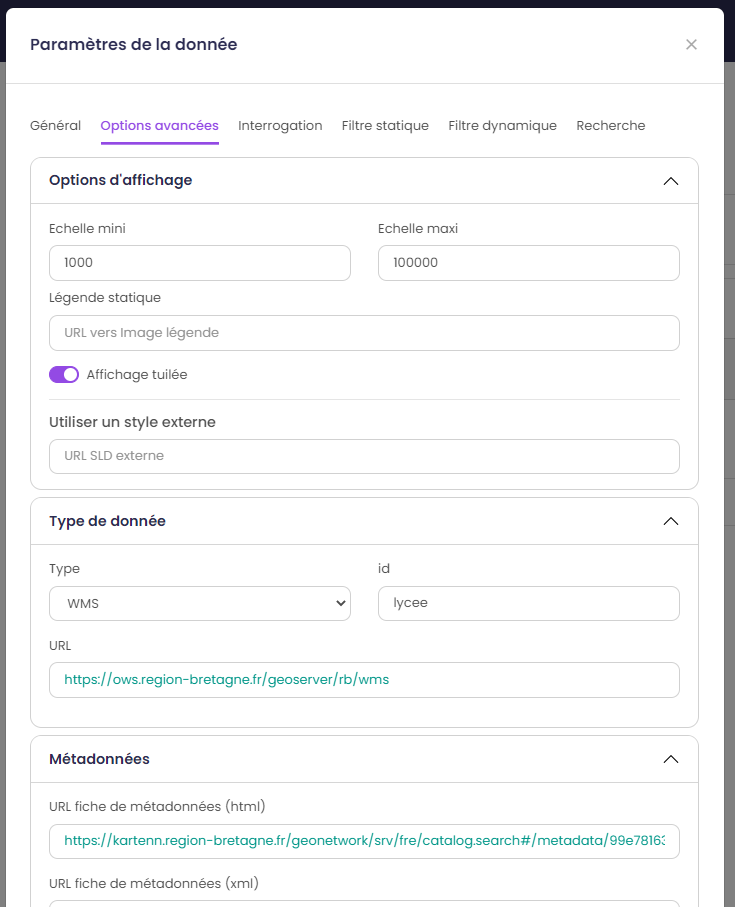
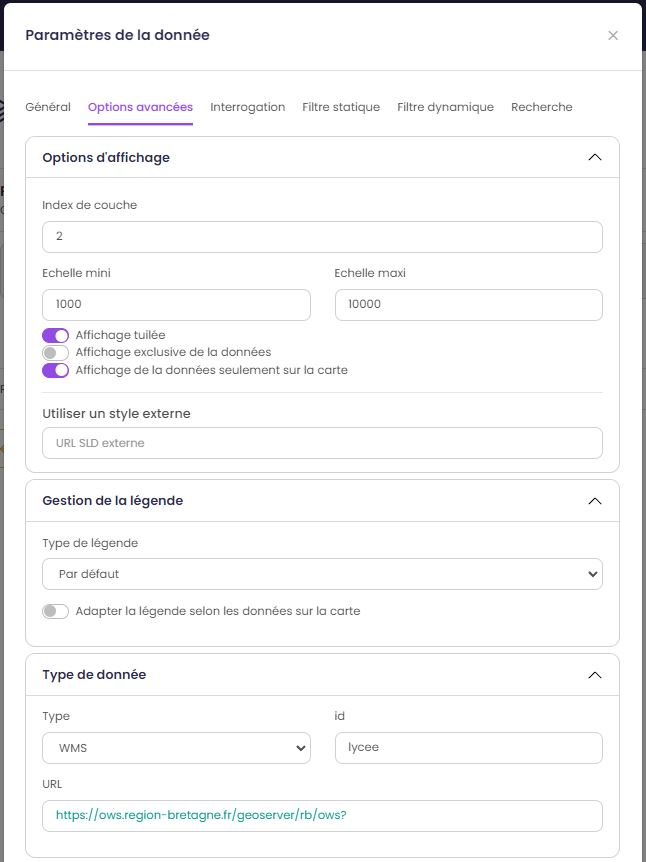
Update doc with new data params

diff --git a/index.html b/index.html
@@ -1109,7 +1109,7 @@
                                                         placeholder="Echelle maxi" i18n="modal.layer.display.ph.maxscale"/>
                                                 </div>
                                             </div>
-                                            <div class="form-group">
+                                            <div class="form-group mt-2">
                                                 <div class="custom-control custom-switch">
                                                     <input type="checkbox" class="custom-control-input" id="frm-tiled">
                                                     <label class="custom-control-label" for="frm-tiled" i18n="modal.layer.tiled">Affichage tuilé</label>

diff --git a/lib/mv.js b/lib/mv.js
@@ -853,12 +853,12 @@ var mv = (function () {
                 case "custom":
                     defaultClass.add("d-none");
                     customClass.remove("d-none");
-                    document.querySelector("#frm-layer-legend-dynamic").setAttribute("checked", true);
+                    document.querySelector("#frm-layer-legend-dynamic").checked = false;
                     break;
                 default:
                     defaultClass.remove("d-none");
                     customClass.add("d-none");
-                    document.querySelector("#frm-layer-legendurl-url").setAttribute("value", "");
+                    document.querySelector("#frm-layer-legendurl-url").value = "";
             }
         },
         

diff --git a/docs/doc_user/param_data.rst b/docs/doc_user/param_data.rst
@@ -103,8 +103,9 @@ L'onglet général recense les principales options de la donnée.
 * ``Attributions`` : source de la donnée.
 * ``Opacité`` : opacité par défaut de la donnée.
 * ``Afficher la donnée au démarrage de l'application`` : la donnée s'affiche au lancement de l'application.
+* ``Afficher la donnée en première position de la carte`` : la données s'affiche toujours au-dessus des autres données qui n'ont pas activée cette option.
 * ``Styles disponibles`` : choix du·des style·s de la donnée dans notre application. Possibilité d'éditer le libellé du style.
-
+* ``Libellé de la liste des styles`` : Titre de la liste de sélection des styles.
 
 Onglet Interrogation
 ~~~~~~~~~~~~~~~~~~~~~
@@ -146,13 +147,18 @@ L'onglet options avancées donne accès aux fonctionnalités avancées. :guilabe
               :alt: Options avancées
               :align: center
 
+* :guilabel:`mode avancé` ``Index de couche`` : Position dans l'ordre d'affichage des données sur la carte et la légende.
 * :guilabel:`mode avancé` ``Echelle mini / maxi`` : Echelle minimale et maximale d'affichage de la donnée.
-* :guilabel:`mode avancé` ``Légende statique`` : Lien vers une image qui s'affiche en tante que légende de la donnée.
 * :guilabel:`mode avancé` ``Affichage tuilé`` : Affichage tuilé de la donnée. La donnée est chargée progressivement.
+* :guilabel:`mode avancé` ``Affichage exclusive de la données`` : l’affichage de cette couche masquera automatiquement toutes les autres couches ayant ce paramètre activé
+* :guilabel:`mode avancé` ``Affichage de la données seulement sur la carte`` : Permet de rendre la couche seulement visible sur la carte, et invisible dans les thématiques et la légende.
 * :guilabel:`mode avancé` ``Utiliser un style externe`` : Lien vers un style SLD remplaçant le style du serveur cartographique.
+* :guilabel:`mode avancé` ``Type de légende`` : Lien vers la métadonnée. Ne pas modifier.
+* :guilabel:`mode avancé` ``Adopter la légende selon les données sur la carte`` : Permet d'afficher une légende qui ne contient que les styles des données visualisées sur l'étendu de la carte en cours de consultation.
+* :guilabel:`mode avancé` ``Lien vers une légende personnalisée`` : URL vers un fichier afin d'afficher la légende à partir d'une image.
+* :guilabel:`mode avancé` ``Métadonnées`` : Lien vers la métadonnée. Ne pas modifier.
 * :guilabel:`mode avancé` ``Type de donnée`` : Lien vers la donnée. Ne pas modifier.
 * :guilabel:`mode avancé` ``Métadonnées`` : Lien vers la métadonnée. Ne pas modifier.
-
 
 Onglet filtre statique
 ~~~~~~~~~~~~~~~~~~~~~~~
